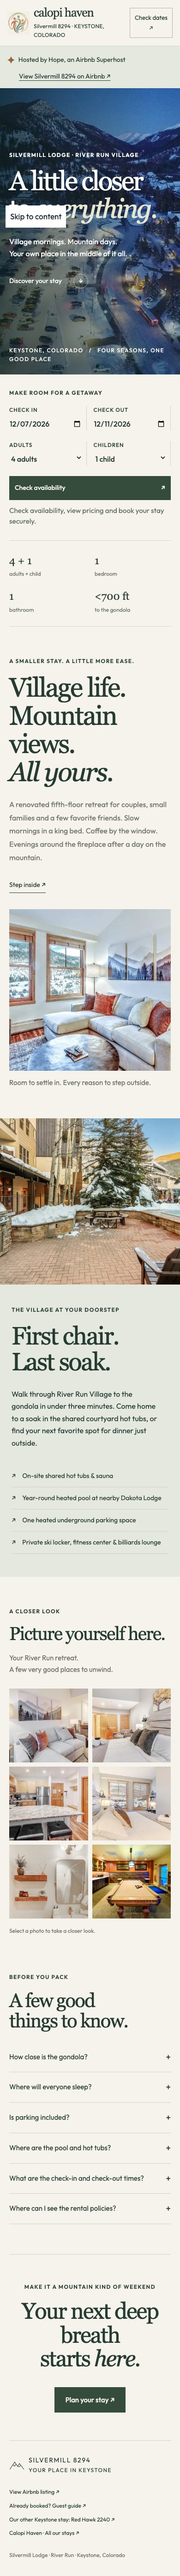
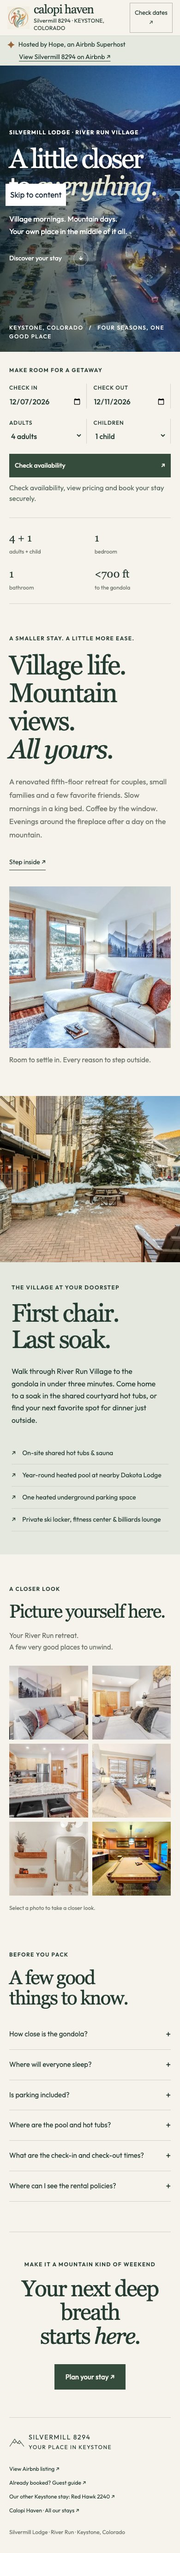
Tighten shared header and Superhost strip spacing

diff --git a/calopi.css b/calopi.css
@@ -85,3 +85,9 @@
 .host-trust{display:flex;justify-content:space-between;align-items:center;gap:18px;padding:14px max(48px,calc((100vw - 1216px)/2));background:#e5e8df;color:#263e33;border-top:1px solid #263e3315;font-size:14px;line-height:1.7}.host-trust p{display:flex;align-items:center;gap:10px;margin:0}.host-trust a{text-decoration:underline;text-underline-offset:4px;flex-shrink:0}
 @media(max-width:1000px){.host-trust{padding-inline:25px}.airbnb-listing-link{margin-left:0;display:table}}
 @media(max-width:600px){.superhost-note{max-width:none}.host-trust{flex-direction:column;align-items:flex-start;gap:7px;padding:13px 16px;font-size:14px}.host-trust p{gap:8px}.host-trust a{margin-left:25px;flex-shrink:1}}
+/* Tighter shared header and host strip, with readable type and roomy controls. */
+.haven-header{min-height:0;padding-block:8px}
+.property-header .haven-brand .property-identity{margin-top:4px;line-height:1.4}
+.host-trust{padding-block:6px}
+.host-trust p>span{line-height:1}
+@media(max-width:600px){.haven-header,.property-header{padding-block:6px}.host-trust{padding-block:7px;gap:3px}}
